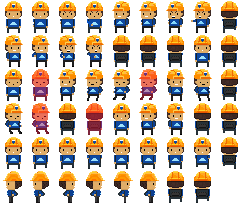
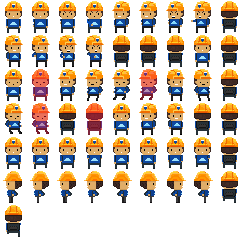
added eng animations

diff --git a/Dungeon Crawler/Shayshu/src/shayshu_game_pjs2.js b/Dungeon Crawler/Shayshu/src/shayshu_game_pjs2.js
@@ -334,19 +334,76 @@ maingame.test_env.prototype = {
             true
         )
         eng.animations.add(
+            'walk_right',
+            Phaser.Animation.generateFrameNames(
+                'walk_right_',
+                1,
+                4,
+                '.png'
+            ),
+            5,
+            true
+        )
+        eng.animations.add(
+            'walk_left',
+            Phaser.Animation.generateFrameNames(
+                'walk_left_',
+                1,
+                4,
+                '.png',
+            ),
+            5,
+            true
+        )
+        eng.animations.add(
             'attack_right',
             Phaser.Animation.generateFrameNames(
                 'attack_right_',
                 1,
+                4,
                 '.png'
             ),
             8,
             true
         )
         eng.animations.add(
-            'hurt_front',
+            'attack_left',
             Phaser.Animation.generateFrameNames(
-                'hurt_front_',
+                'attack_left_',
+                1,
+                4,
+                '.png'
+            ),
+            8,
+            true
+        )
+        eng.animations.add(
+            'attack_up',
+            Phaser.Animation.generateFrameNames(
+                'attack_up_',
+                1,
+                3,
+                '.png'
+            ),
+            8,
+            true
+        )
+        eng.animations.add(
+            'attack_down',
+            Phaser.Animation.generateFrameNames(
+                'attack_down_',
+                1,
+                4,
+                '.png'
+            ),
+            8,
+            true
+        )
+
+        eng.animations.add(
+            'hurt_up',
+            Phaser.Animation.generateFrameNames(
+                'hurt_up_',
                 1,
                 2,
                 '.png'
@@ -354,7 +411,41 @@ maingame.test_env.prototype = {
             2,
             true
         )
-        eng.animations.play('walk_up')
+        eng.animations.add(
+            'hurt_down',
+            Phaser.Animation.generateFrameNames(
+                'hurt_down_',
+                1,
+                3,
+                '.png'
+            ),
+            2,
+            true
+        )
+        eng.animations.add(
+            'hurt_left',
+            Phaser.Animation.generateFrameNames(
+                'hurt_left_',
+                1,
+                4,
+                '.png'
+            ),
+            2,
+            true
+        )
+        eng.animations.add(
+            'hurt_right',
+            Phaser.Animation.generateFrameNames(
+                'hurt_right_',
+                1,
+                4,
+                '.png'
+            ),
+            2,
+            true
+        )
+
+        eng.animations.play('walk_right')
 
     },
 
